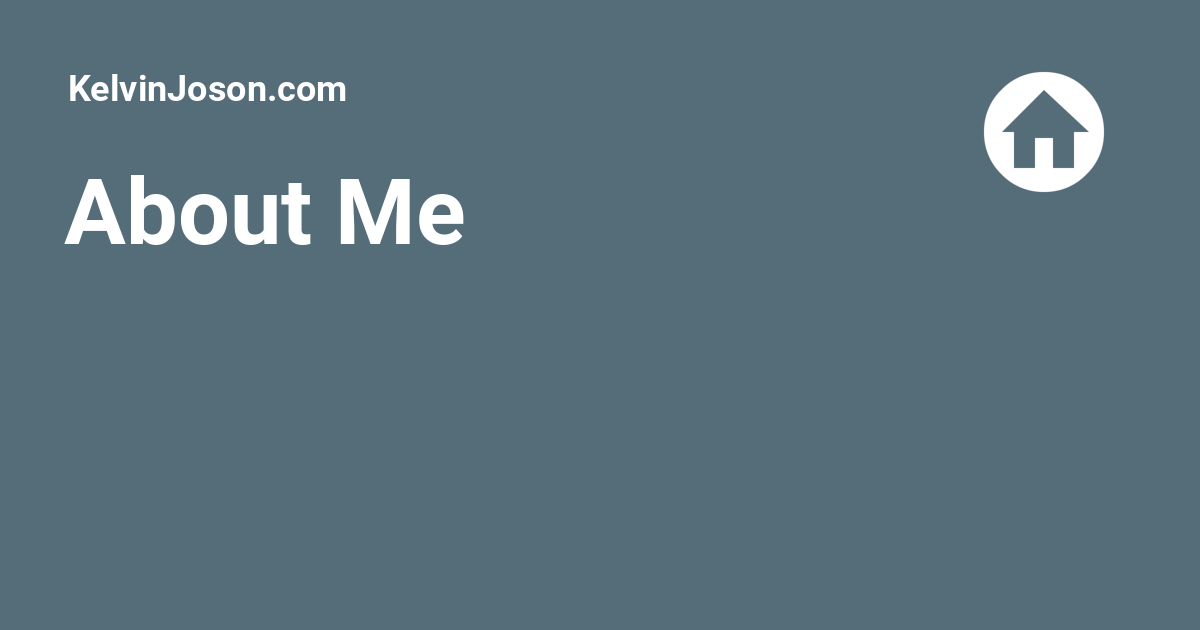
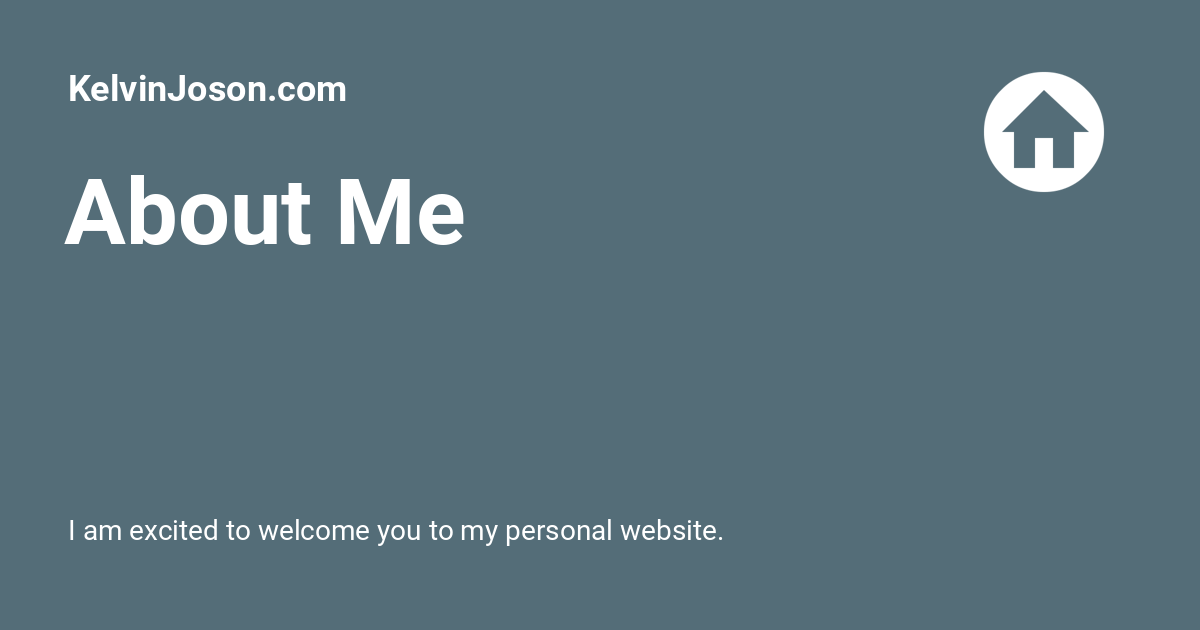
Deployed 7052df4 with MkDocs version: 1.4.0

Changed region(s): [[0.0617, 0.8143, 0.5858, 0.8746]]

diff --git a/index.html b/index.html
@@ -6,6 +6,8 @@
       <meta charset="utf-8">
       <meta name="viewport" content="width=device-width,initial-scale=1">
       
+        <meta name="description" content="I am excited to welcome you to my personal website.">
+      
       
         <meta name="author" content="Kelvin Joson">
       
@@ -17,7 +19,7 @@
     
     
       
-        <title>KelvinJoson.com</title>
+        <title>About Me - KelvinJoson.com</title>
       
     
     
@@ -66,7 +68,7 @@
       
         <meta  property="og:title"  content="About Me" >
       
-        <meta  property="og:description"  content="None" >
+        <meta  property="og:description"  content="I am excited to welcome you to my personal website." >
       
         <meta  property="og:image"  content="https://kelvinjoson.com/assets/images/social/index.png" >
       
@@ -82,7 +84,7 @@
       
         <meta  name="twitter:title"  content="About Me" >
       
-        <meta  name="twitter:description"  content="None" >
+        <meta  name="twitter:description"  content="I am excited to welcome you to my personal website." >
       
         <meta  name="twitter:image"  content="https://kelvinjoson.com/assets/images/social/index.png" >
       
@@ -425,7 +427,7 @@
   <small>
     
       Last update:
-      <span class="git-revision-date-localized-plugin git-revision-date-localized-plugin-timeago"><span class="timeago" datetime="2022-09-29T08:48:08+00:00" locale="en"></span></span><span class="git-revision-date-localized-plugin git-revision-date-localized-plugin-iso_date">2022-09-29</span>
+      <span class="git-revision-date-localized-plugin git-revision-date-localized-plugin-timeago"><span class="timeago" datetime="2022-10-03T02:56:58+00:00" locale="en"></span></span><span class="git-revision-date-localized-plugin git-revision-date-localized-plugin-iso_date">2022-10-03</span>
       
     
   </small>
